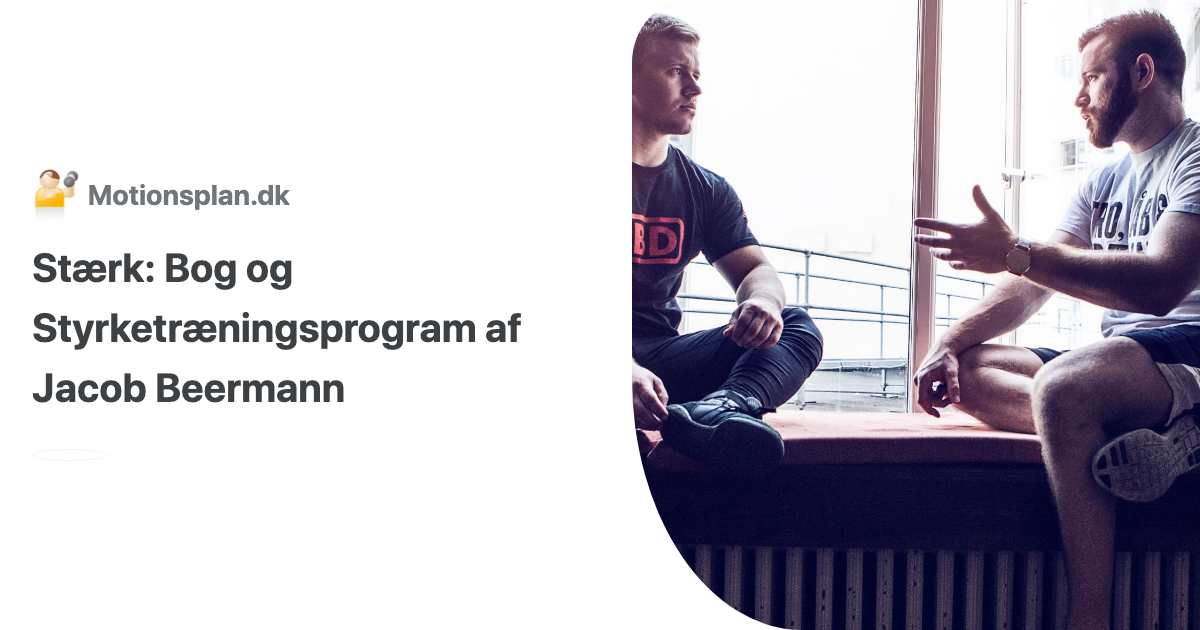
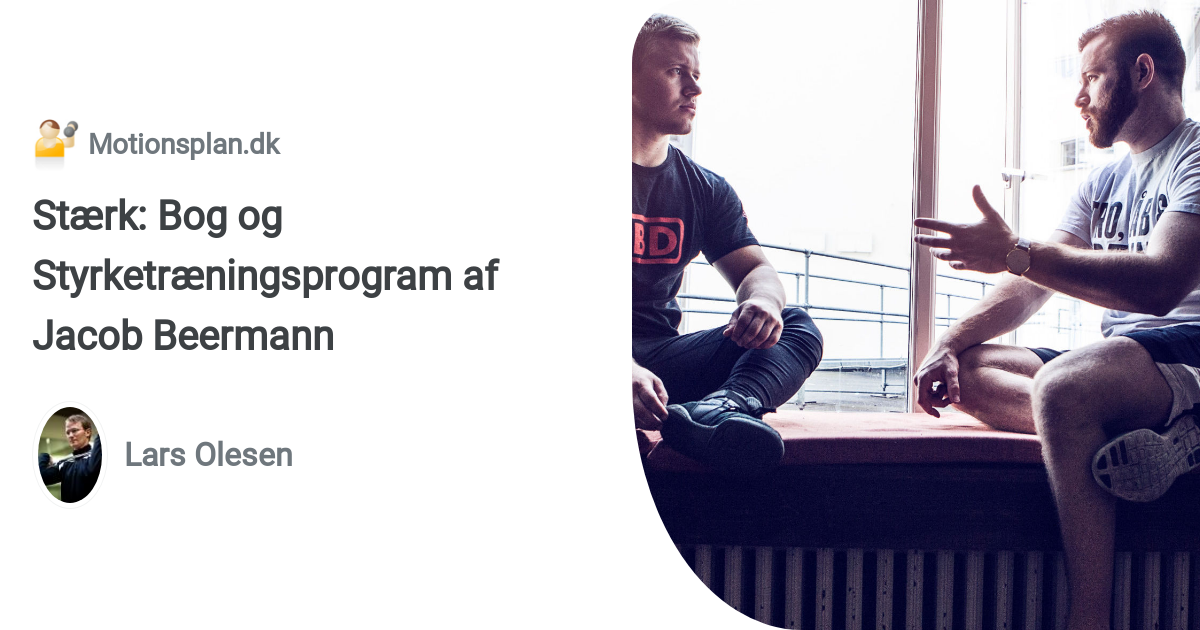
Changed the parameters a bit

Changed region(s): [[0.0308, 0.181, 0.4317, 0.8143]]

diff --git a/_scripts/generate-image.js b/_scripts/generate-image.js
@@ -50,10 +50,10 @@ function objectToParams(object) {
 
 // get only data relevant to screenshot
 const urls = posts.map(post => objectToParams({
-    'post-title': post.title || '',
-    'post-excerpt': post.excerpt || post.description || '',
-    'author-name': post.author && authors[post.author].name || '',
-    'author-image': post.author && authors[post.author].avatar || '',
+    'post-title': post.seo_title || post.title || '',
+    'post-excerpt': post.description || post.excerpt || '',
+    'author-name': post.author && authors[post.author].name || authors['lsolesen'].name || '',
+    'author-image': post.author && authors[post.author].avatar || authors['lsolesen'].avatar || '',
     'post-image': post.header.overlay_image || '',
   })
 ).map(params => {

diff --git a/_posts/2020-08-03-citater-fitness-bodybuilding.md b/_posts/2020-08-03-citater-fitness-bodybuilding.md
@@ -2,6 +2,7 @@
 title: &title "12 citater om fitness og bodybuilding [2021]"
 permalink: /citater-fitness-bodybuilding/
 last_modified_at: 2020-12-29T09:41:09Z
+excerpt: "Jeg falder ofte over citater om fitness og bodybuidling, og mange af dem er inspirerende og motiverende. Jeg har samlet {{ page.feature_quotes.size }} citater her. Jeg synes et citat kan give motivation til min træning i fitness, og nogle af dem der træner allermest er jo bodybuildere."
 language: da
 header:
   overlay_image: https://images.unsplash.com/photo-1487088678257-3a541e6e3922?ixlib=rb-1.2.1&ixid=eyJhcHBfaWQiOjEyMDd9&auto=format&fit=crop&w=2167&q=80
@@ -88,7 +89,7 @@ citatplakat:
     title: Do you even lift bro?
 ---
 
-Jeg falder ofte over citater om fitness og bodybuidling, og mange af dem er inspirerende og motiverende. Jeg har samlet {{ page.feature_quotes.size }} citater her. Jeg synes et citat kan give motivation til min træning i fitness, og nogle af dem der træner allermest er jo bodybuildere. 
+Jeg falder ofte over citater om fitness og bodybuidling, og mange af dem er inspirerende og motiverende. Jeg har samlet {{ page.feature_quotes.size }} citater her. Jeg synes et citat kan give motivation til min træning i fitness, og nogle af dem der træner allermest er jo bodybuildere.
 
 Jeg har samlet en masse forskellige citater om fitness og bodybuilding her på siden, men jeg har også oprettet en [Pinterest Opslagstavle med citater](https://pin.it/6VHPDcC), så skynd dig ind og følge den.
 
